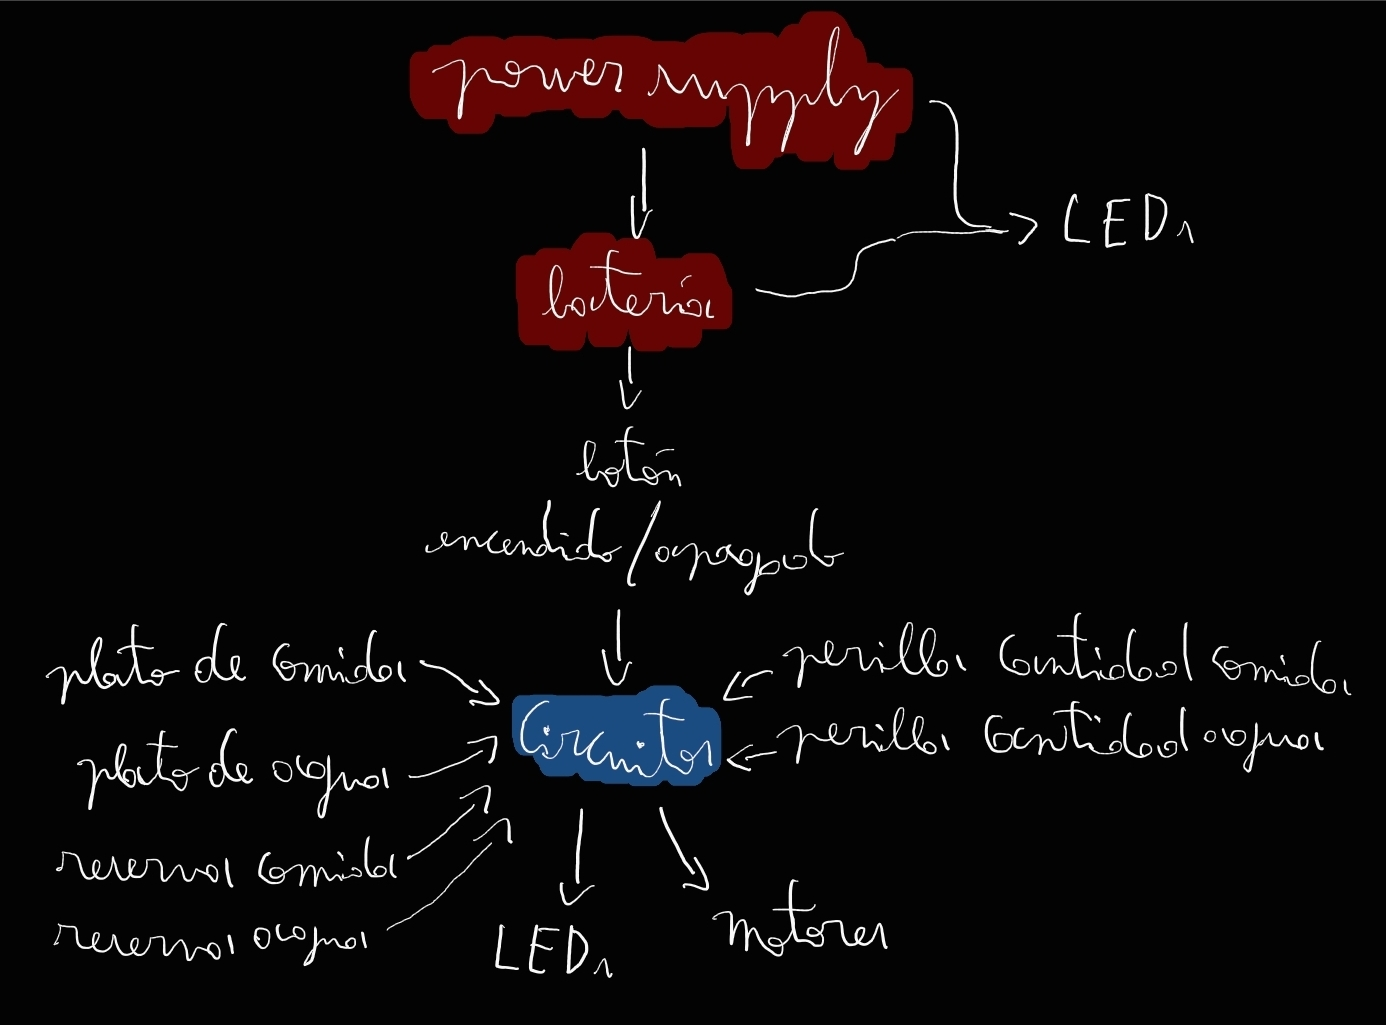
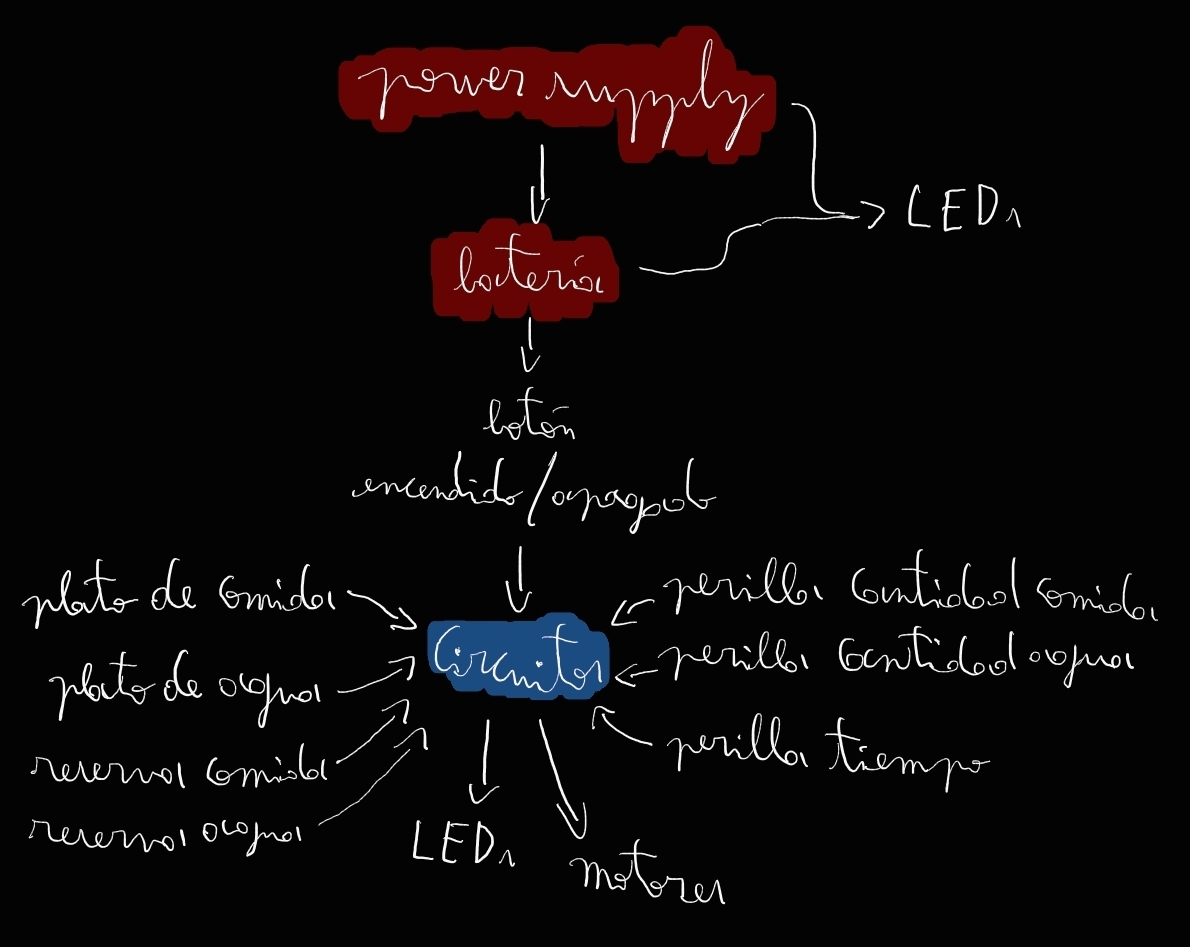
update

diff --git a/25-FranUDP/sesion-12b/README.md b/25-FranUDP/sesion-12b/README.md
@@ -18,11 +18,11 @@
 Mi perrita se la pasa sola en la casa durante la mayoría del día, debido a que estamos todos ocupados fuera, todos menos mi hermano (por ahora). 
 Previendo la posibilidad que él deje de poder reponerle el agua y la comida a causa de la universidad, pensé en un dispensador de agua y comida automático.
 
-Este aparato se enchufará a la pared a través de una power supply de 5-9V USB-C y contará con una batería interna que asegurará que se mantendrá funcionando incluso durante cortes de luz. 
+Este aparato se enchufará a la pared a través de una power supply de 5V USB-C y contará con una batería interna que asegurará que se mantendrá funcionando incluso durante cortes de luz. 
 
 El dispositivo tendrá un botón de encendido y apagado, además de una perilla para determinar la cantidad de comida, otra para la cantidad de agua dispensada y otra para seleccionar el tiempo de espera antes de reponer los alimentos.
 
-El dispensador detectará cuando le hayan acabado el agua y la comida, en caso de que los platos estén vacíos, el dispositivo comenzará a contar hasta que se cumpla el delay establecido antes de liberar la cantidad especificada de alimento. Este delay se debe a que si no se regula la frecuencia y las porciones que inhieren las mascotas, la salud de estas se verá afectada.
+El dispensador detectará cuando le hayan acabado el agua (agua como switch) y la comida (LDR al fondo del plato), en caso de que los platos estén vacíos, el dispositivo comenzará a contar hasta que se cumpla el delay establecido antes de liberar la cantidad especificada de alimento. Este delay se debe a que si no se regula la frecuencia y las porciones que inhieren las mascotas, la salud de estas se verá afectada.
 
 Si el dispensador está recibiendo energía del power supply mantendrá encendida un LED azul, en caso de estar funcionando en energía de emergencia este LED parpadeará; mientras la batería se esté cargando, brillará un LED rojo; Si los tanques de agua y comida de reserva están cerca de vaciarse, el dispositivo avisará parpadeando el LED rojo.
 
